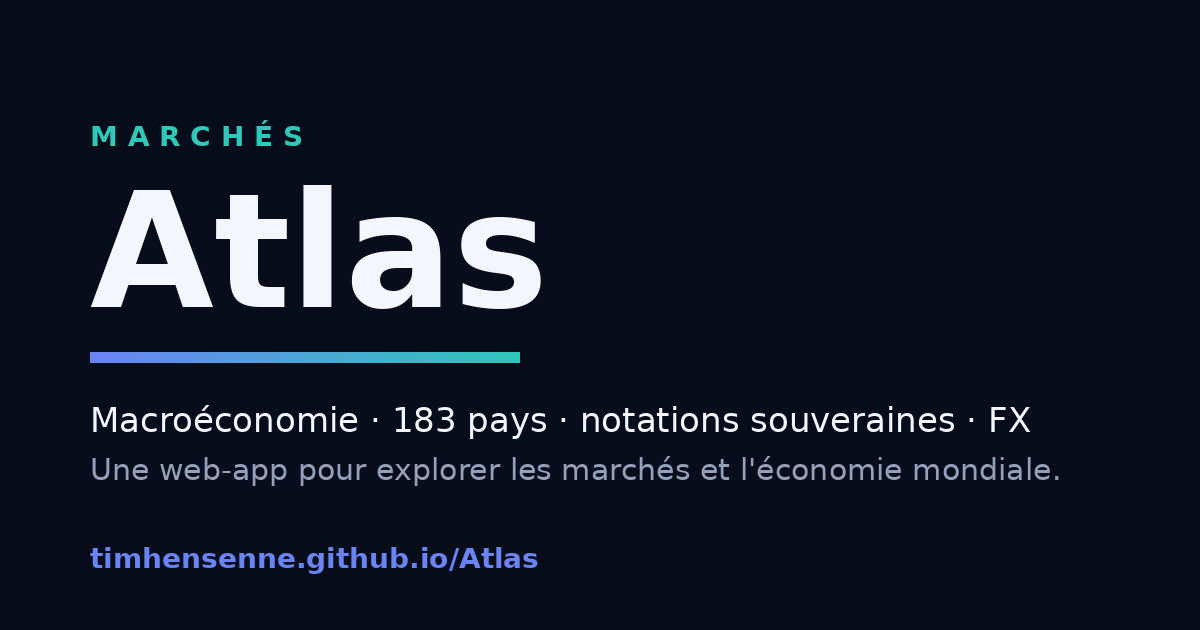
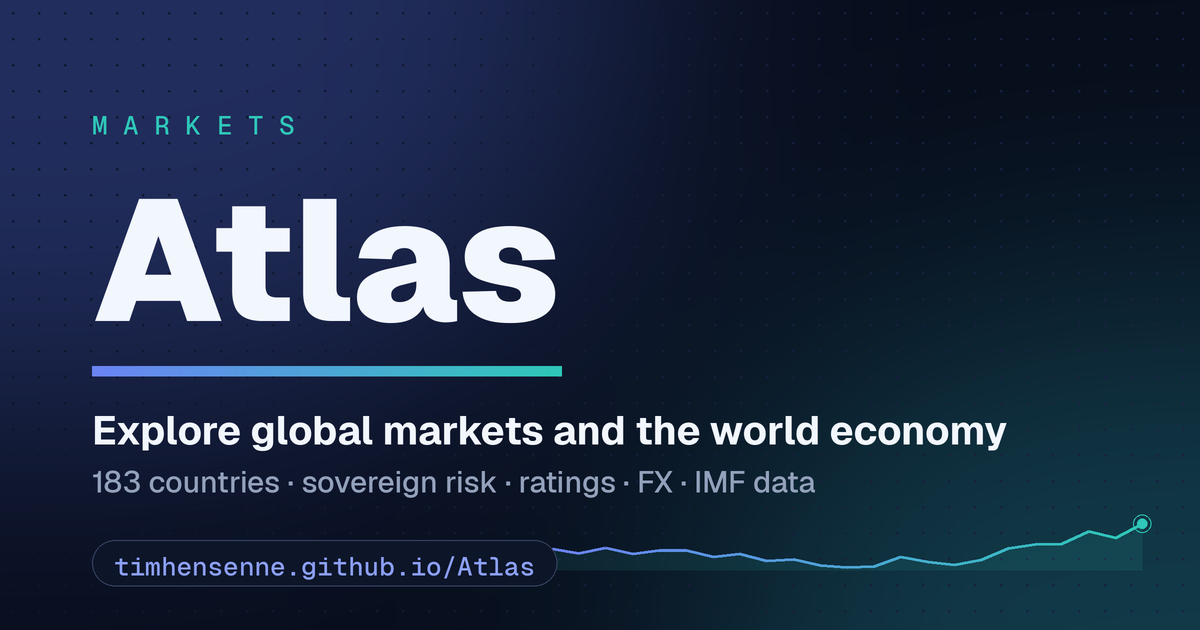
chore: nouvelle vignette de partage social

diff --git a/public/index.html b/public/index.html
@@ -10,16 +10,17 @@
 <link rel="icon" href="favicon.svg" type="image/svg+xml">
 <meta property="og:type" content="website">
 <meta property="og:site_name" content="Atlas">
-<meta property="og:title" content="Atlas · Marchés">
-<meta property="og:description" content="Explorer les marchés et l'économie mondiale : 183 pays, notations souveraines, FX, jeux. Données FMI, Banque mondiale, OCDE.">
+<meta property="og:title" content="Atlas · Markets">
+<meta property="og:description" content="Explore global markets and the world economy: 183 countries, sovereign risk score, credit ratings, FX. IMF, World Bank and OECD data.">
 <meta property="og:url" content="https://timhensenne.github.io/Atlas/">
 <meta property="og:image" content="https://timhensenne.github.io/Atlas/og.png">
 <meta property="og:image:width" content="1200">
 <meta property="og:image:height" content="630">
-<meta property="og:locale" content="fr_FR">
+<meta property="og:locale" content="en_US">
+<meta property="og:locale:alternate" content="fr_FR">
 <meta name="twitter:card" content="summary_large_image">
-<meta name="twitter:title" content="Atlas · Marchés">
-<meta name="twitter:description" content="Explorer les marchés et l'économie mondiale : 183 pays, notations souveraines, FX, jeux.">
+<meta name="twitter:title" content="Atlas · Markets">
+<meta name="twitter:description" content="Explore global markets and the world economy: 183 countries, sovereign risk, ratings, FX.">
 <meta name="twitter:image" content="https://timhensenne.github.io/Atlas/og.png">
 <link rel="preconnect" href="https://fonts.googleapis.com">
 <link rel="preconnect" href="https://fonts.gstatic.com" crossorigin>
